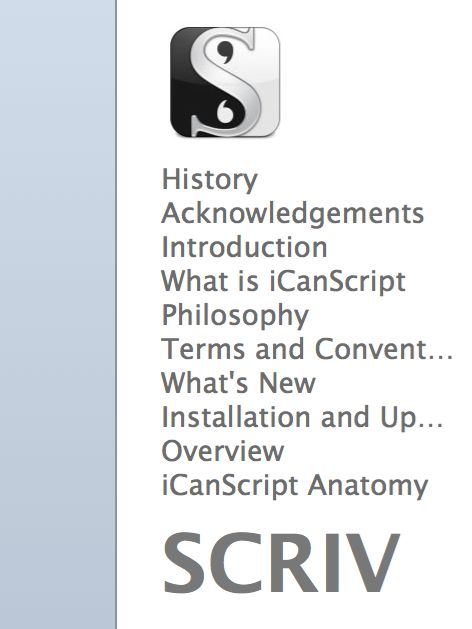
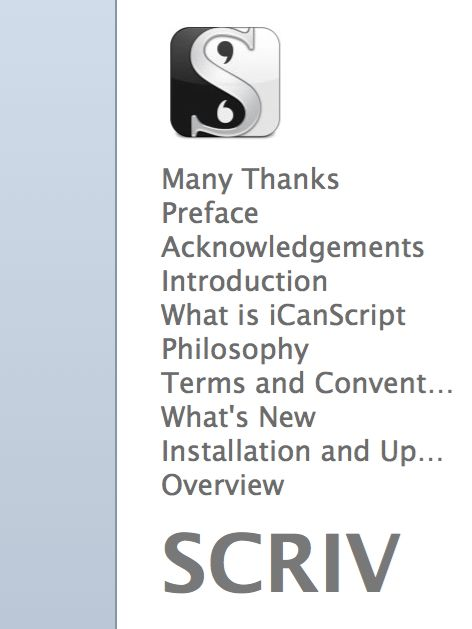
UserManual: Added section "Many Thanks".  Revised section "Preface".

Changed region(s): [[0.3263, 0.2417, 0.9195, 0.8156]]

diff --git a/Documentation/iCanScript User Manual.scriv/QuickLook/Preview.html b/Documentation/iCanScript User Manual.scriv/QuickLook/Preview.html
@@ -28,9 +28,15 @@
 
 <ul>
 <li>
-<p class="binderItem"><strong>History</strong><br/>iCanScript is a concept that has evolved over the last 15 years of my professional software engineering life.<br/>
-In 1997, the core concepts of the engine sub-system were first designed and implemented for a large telecommunication corporation.  The resulting software engine was embedded in several large scale telecommunication products in the years to follow.<br/>
-Having joined the gaming industry in 2003, I have realized that the engine needed to be complemented by a visual editor to boost the producti...</p>
+<p class="binderItem"><strong>Many Thanks</strong><br/>We, at Disruptive Software, would like to start by saying: <br/>
+— Thank You for your interest in iCanScript !!!                 <br/>
+Their is nothing more exiting for software designers like us than growing our customer base and we will make every effort to help you become one of our users.<br/>
+— The Software Development Team at Disruptive Software.</p>
+</li>
+<li>
+<p class="binderItem"><strong>Preface</strong><br/>iCanScript is a concept that has evolved over the last 15 years of my professional software engineering life.<br/>
+In 1997, the core concepts of the engine sub-system were first designed and implemented for a large telecommunication corporation.  The resulting software engine was embedded in several large scale products in the years to follow.<br/>
+Having joined the gaming industry in 2003, I have realized that the engine needed to be complemented by a visual editor to boost the productivity in designing ...</p>
 </li>
 <li>
 <p class="binderItem"><strong>Acknowledgements</strong><br/>- Thanks to all the donors.</p>
